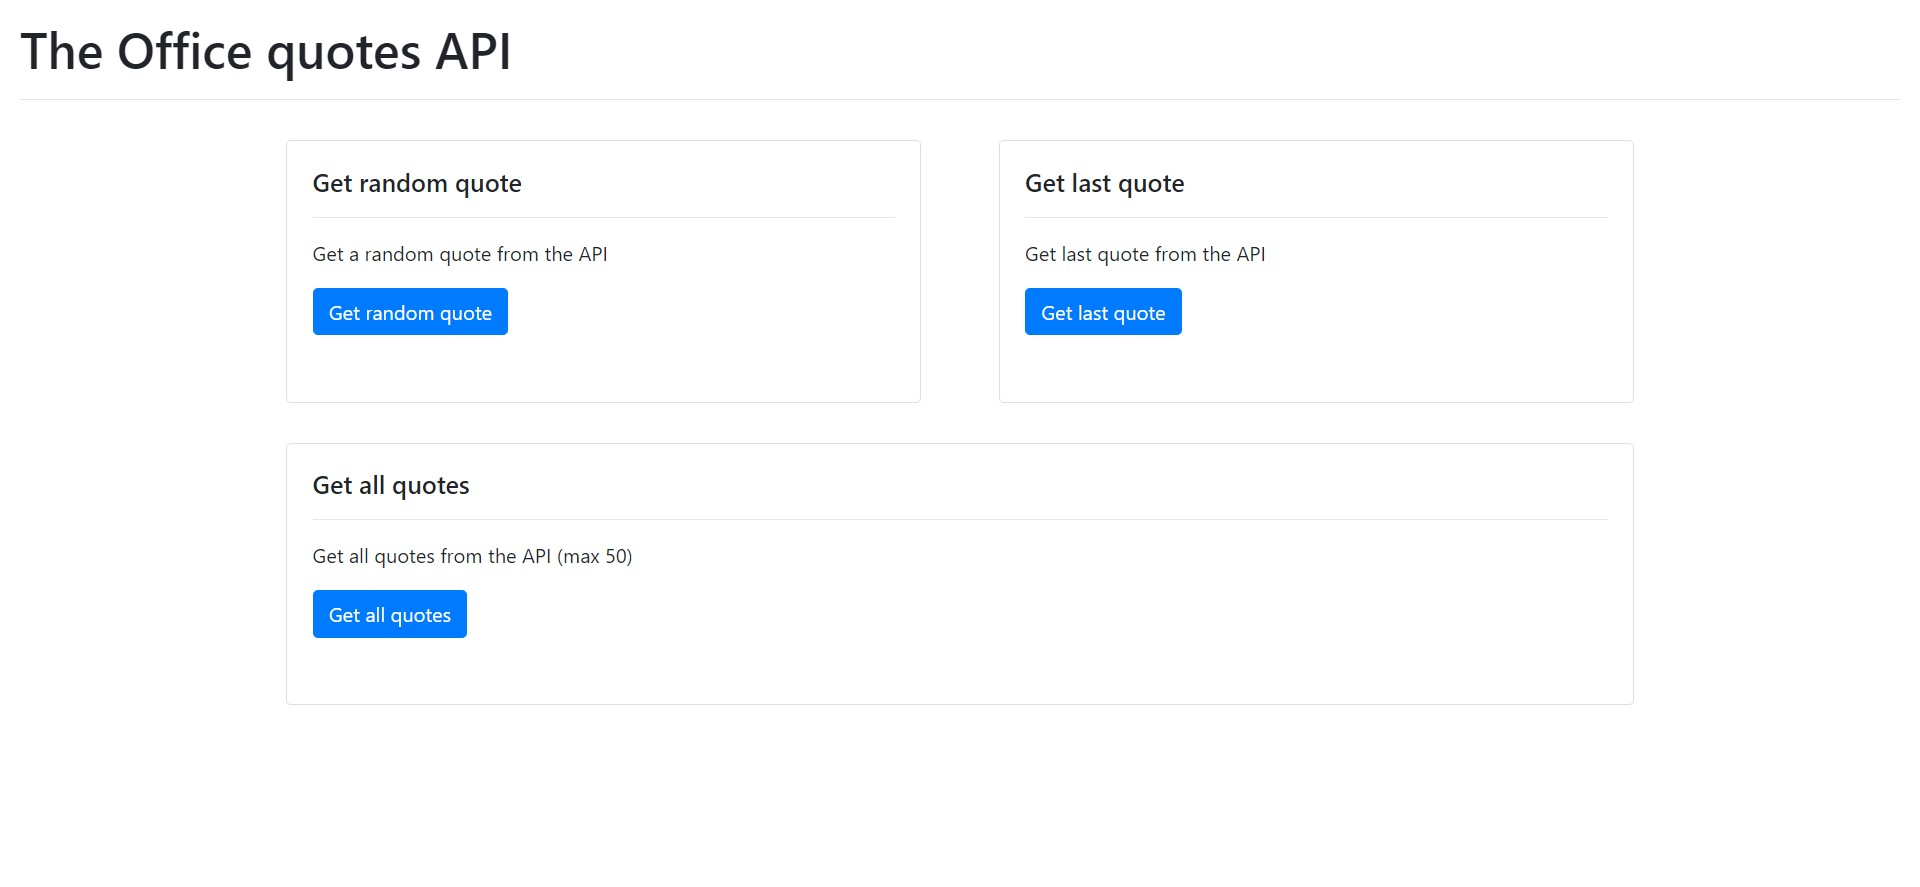
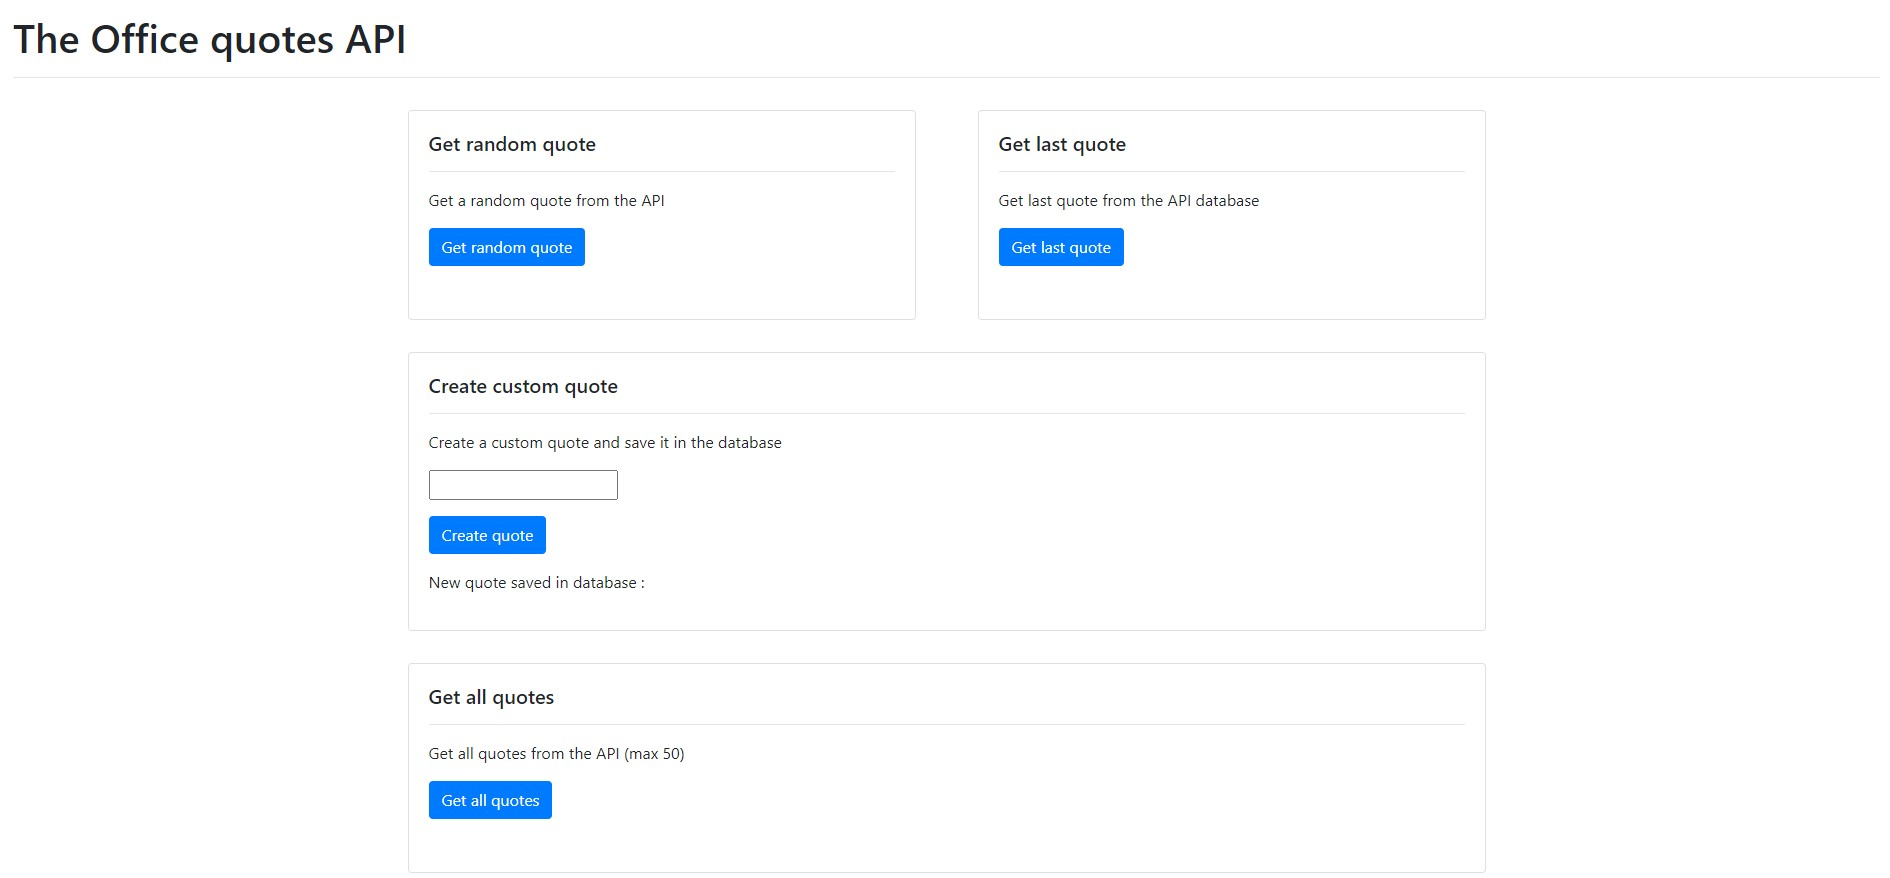
Add POST front-end to README.md

diff --git a/README.md b/README.md
@@ -87,6 +87,12 @@ Als de gebruiker op deze knop drukt, wordt er een willekeurige quote uit de data
 
 De get last quote knop kan worden ingedrukt om de laatste quote uit de database weer te geven aan de gebruiker. Deze knop is vooral bedoeld om te kijken of een zelf ingegeven quote in de database staat, aangezien deze helemaal als laatst in de database staat. Deze knop zal zonder aanpassing van de database altijd dezelfde quote weergeven.
 
+#### Create quote front-end
+
+![Create quote knop front-end][postquote-frontend]
+
+De gebruiker kan ook zelf een quote opslaan in de database met de 'Create quote' knop. Er kan in het tekstveld boven de knop zelf een quote worden ingetoetst, en in de database worden opgeslagen door op de knop te drukken. Nadat er op de knop is gedrukt komt er onder de knop ook een bevestiging van welke quote er is opgeslagen in de database.
+
 #### Get all quotes front-end
 
 ![Get all quotes knop front-end][getallquotes-frontend]
@@ -157,6 +163,7 @@ Hosted API link: [https://api-development-service-tibogeeraerts.cloud.okteto.net
 [frontend-url]: https://geeraertstibo-api.netlify.app/
 [getrandomquote-frontend]: images/getrandomquote-front-end.jpg
 [getlastquote-frontend]: images/getlastquote-front-end.jpg
+[postquote-frontend]: images/postquote-front-end.jpg
 [getallquotes-frontend]: images/getallquotes-front-end.jpg
 
 [backend-screenshot]: images/back-end-screenshot.jpg
